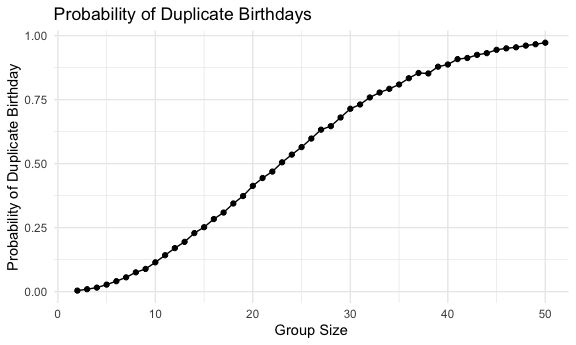
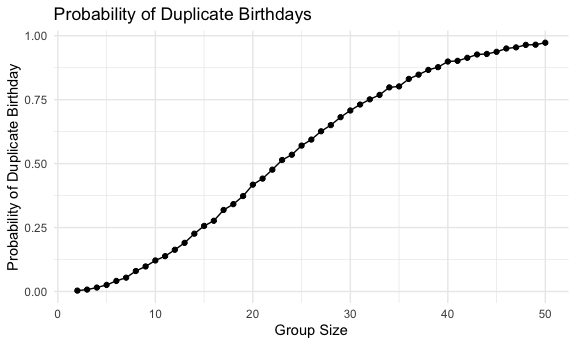
Fixing formatting and simulating mu set

diff --git a/p8105_hw5_mts2203.md b/p8105_hw5_mts2203.md
@@ -3,10 +3,6 @@ p8105_hw5_mts2203
 Madeline Sharp
 2026-11-14
 
-# Problem 0
-
-## Setting up
-
 # Problem 1
 
 ## Writing Birthday Function
@@ -48,16 +44,16 @@ birthday_probabilities_df =
     ## # A tibble: 49 × 2
     ##    number_of_people probability
     ##               <int>       <dbl>
-    ##  1                2      0.004 
-    ##  2                3      0.0096
-    ##  3                4      0.0158
-    ##  4                5      0.0274
-    ##  5                6      0.0408
-    ##  6                7      0.0559
-    ##  7                8      0.0754
-    ##  8                9      0.0887
-    ##  9               10      0.114 
-    ## 10               11      0.142 
+    ##  1                2      0.0034
+    ##  2                3      0.0074
+    ##  3                4      0.0154
+    ##  4                5      0.0257
+    ##  5                6      0.0413
+    ##  6                7      0.054 
+    ##  7                8      0.0801
+    ##  8                9      0.0979
+    ##  9               10      0.121 
+    ## 10               11      0.138 
     ## # ℹ 39 more rows
 
 ## Plotting Probabilities
@@ -234,40 +230,86 @@ experimental group is improving over time compared to the control group.
 
 # Problem 3
 
-## Setting the Design Elements and Running Simulations
+## Setting Design Elements and Creating t-test Function
 
 ``` r
-# setting the design elements
-n = 30
-sigma = 5
-n_sims = 5000
-alpha = 0.05
+# setting the design elements and generating a one-sample t-test function
+sim_t_test = function(n_obs = 30, mu = 0, sigma = 5) {
 
-# generating datasets when the true mean is zero.
-simulation_df =
+  sim_df =
+    tibble(
+      x = rnorm(n = n_obs, mean = mu, sd = sigma)
+    )
+
+  return_df =
+    sim_df |>
+    summarize(
+      estimate = mean(x),
+      p.value = broom::tidy(t.test(x, mu = 0))$p.value
+    )
+
+  return(return_df)
+
+}
+```
+
+## Running Simulations
+
+``` r
+# generating 5000 datasets from the rnorm model
+sim_results1_df =
   tibble(
-    iter = 1:n_sims
-  ) |>
+    samp_size = rep(30, 5000)
+  ) |> 
   mutate(
-    data = map(iter, \(x) rnorm(n, mean = 0, sd = sigma)),
-    results = map(data, \(x) broom::tidy(t.test(x, mu = 0)))
-  ) |>
-  unnest(results) |>
-  select(iter, estimate, p.value) |>
+    est_df = map(samp_size, sim_t_test)
+  ) |> 
+  unnest(est_df) |>
   print()
 ```
 
     ## # A tibble: 5,000 × 3
-    ##     iter estimate p.value
-    ##    <int>    <dbl>   <dbl>
-    ##  1     1   -1.07    0.249
-    ##  2     2    0.515   0.621
-    ##  3     3   -0.331   0.660
-    ##  4     4   -0.151   0.871
-    ##  5     5    0.333   0.671
-    ##  6     6   -0.440   0.662
-    ##  7     7    1.32    0.185
-    ##  8     8   -0.463   0.520
-    ##  9     9    1.39    0.209
-    ## 10    10    0.519   0.537
+    ##    samp_size estimate p.value
+    ##        <dbl>    <dbl>   <dbl>
+    ##  1        30   -0.845   0.458
+    ##  2        30    0.165   0.865
+    ##  3        30    0.265   0.804
+    ##  4        30    1.08    0.223
+    ##  5        30   -0.260   0.742
+    ##  6        30    0.726   0.416
+    ##  7        30   -0.929   0.201
+    ##  8        30    0.132   0.875
+    ##  9        30   -1.05    0.212
+    ## 10        30   -0.884   0.233
     ## # ℹ 4,990 more rows
+
+## Repeating Simulations for Mu Set
+
+``` r
+# repeating simulation for population means from 0 to 6
+sim_results2_df =
+  expand_grid(
+    mu = 0:6,
+    iter = 1:5000
+  ) |> 
+  mutate(
+    est_df = map(mu, ~sim_t_test(mu = .))
+  ) |> 
+  unnest(est_df) |> 
+  print()
+```
+
+    ## # A tibble: 35,000 × 4
+    ##       mu  iter estimate p.value
+    ##    <int> <int>    <dbl>   <dbl>
+    ##  1     0     1  -0.435   0.687 
+    ##  2     0     2  -1.67    0.0418
+    ##  3     0     3   0.954   0.172 
+    ##  4     0     4  -0.0594  0.956 
+    ##  5     0     5   0.629   0.515 
+    ##  6     0     6  -0.130   0.888 
+    ##  7     0     7   1.48    0.134 
+    ##  8     0     8  -0.627   0.520 
+    ##  9     0     9  -0.196   0.855 
+    ## 10     0    10  -1.82    0.0607
+    ## # ℹ 34,990 more rows
